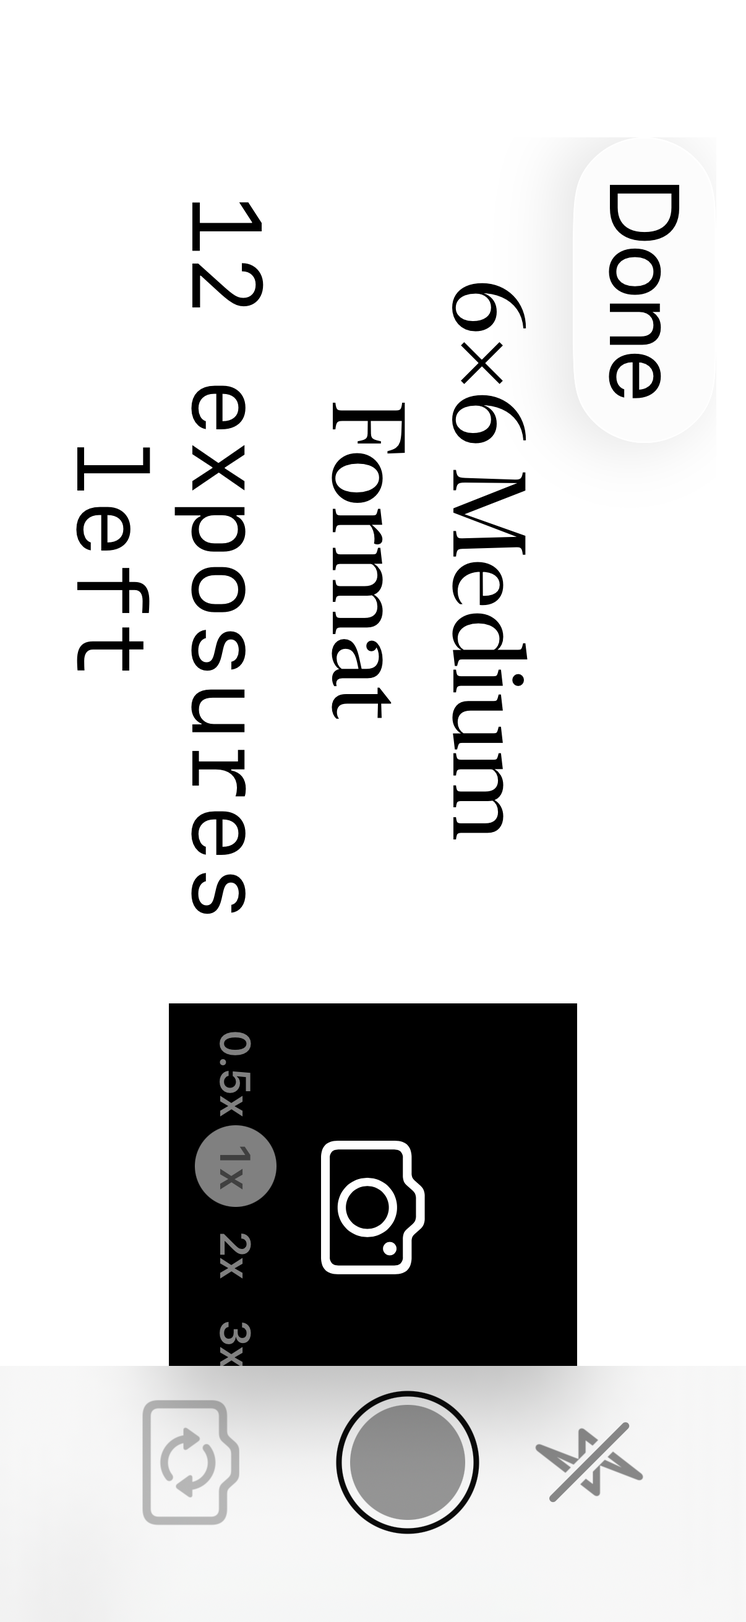
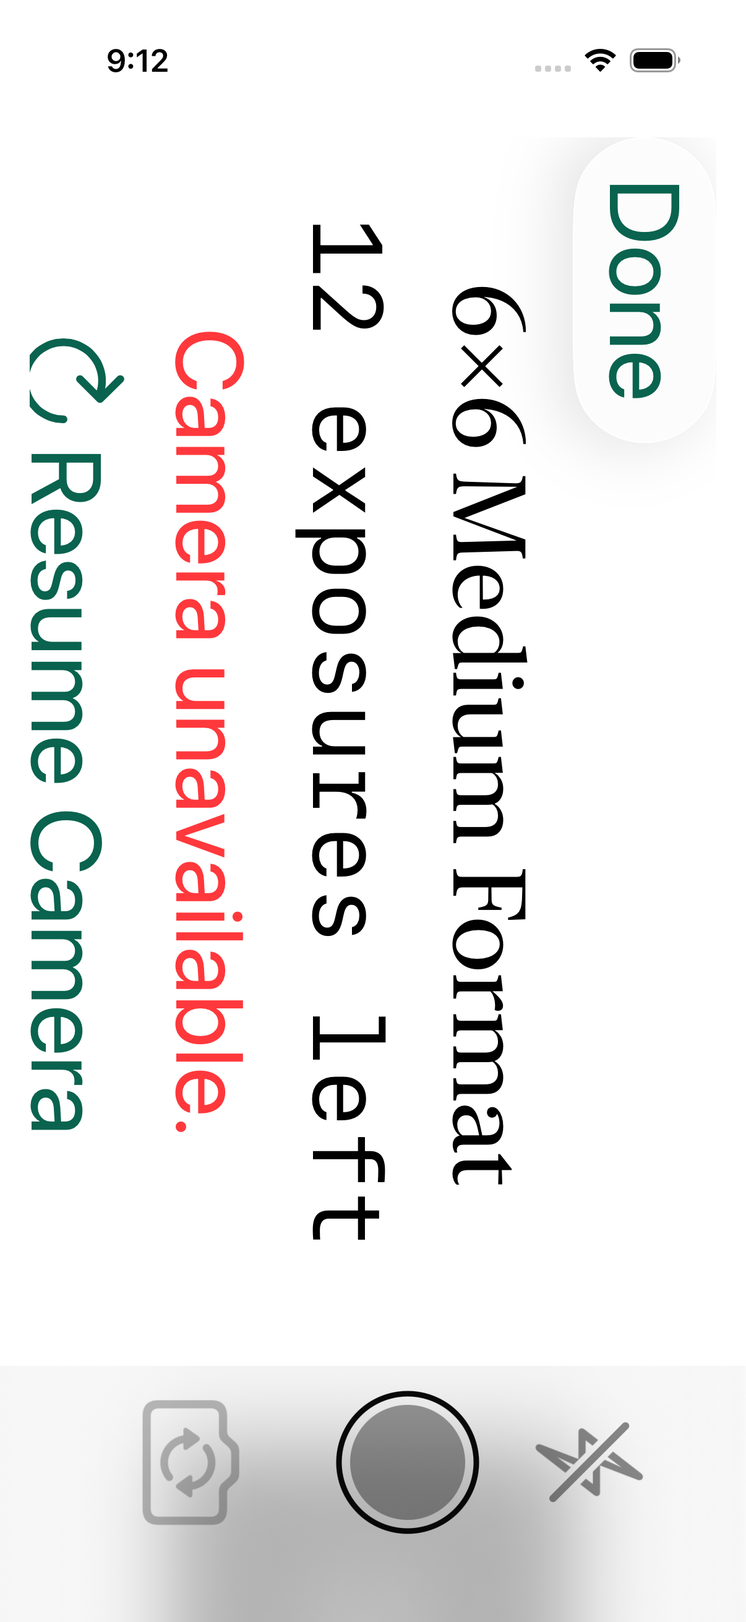
no-mistakes(test): Fix turned shooting-screen header at the largest text size

diff --git a/App/Immerse/UITests/CaptureSidewaysUITests.swift b/App/Immerse/UITests/CaptureSidewaysUITests.swift
@@ -5,8 +5,8 @@ import XCTest
 /// screen keeps turning with the iPhone. The simulator has no camera, so the screen shows its message for the missing one,
 /// and only what it draws without a lens is measured; the zoom pill, the sliders and the Disposable's cue, which a lens
 /// raises, are in `CaptureSidewaysTests`. Loading uses the Debug testing unlock and answers a fresh Camera request
-/// itself, and each test starts on an empty Journal and deletes the Film it loaded. One test per Camera shape, to stay
-/// inside the per-test time allowance.
+/// itself, and each test starts on an empty Journal and deletes the Film it loaded. One test per Camera shape, and the 6×6
+/// again at the largest text size, to stay inside the per-test time allowance.
 @MainActor
 final class CaptureSidewaysUITests: XCTestCase {
     func testSixBySixShootingScreenKeepsItsLayoutHeldSideways() throws {
@@ -39,10 +39,48 @@ final class CaptureSidewaysUITests: XCTestCase {
         var switchCamera: CGRect
     }
 
-    /// `fillsTheRoom`: the Camera's viewfinder is taller than it is wide, so the room above the shutter bar, not the screen's
-    /// width, sets its size, and it ends just above the bar.
-    private func check(id: String, name: String, fillsTheRoom: Bool) throws {
+    /// At the largest text size the header and the notices in it take more room than the screen has, so the screen
+    /// scrolls, and held on its side the turned header is wider than the screen and scrolls across it. The viewfinder still
+    /// keeps its size and place in every hold, and turned straight from one side to the other the header starts from Done.
+    func testSixBySixShootingScreenKeepsItsViewfinderAtTheLargestTextSize() throws {
         let app = XCUIApplication()
+        app.launchArguments += ["-UIPreferredContentSizeCategoryName", "UICTContentSizeCategoryAccessibilityXXXL"]
+        defer { XCUIDevice.shared.orientation = .portrait }
+        let title = try openShootingScreen(app, id: "mediumFormat6x6")
+        defer { deleteFilm(titled: title, app) }
+        let done = app.buttons["Done"]
+        let upright = try layout(app)
+        XCTAssertTrue(upright.window.contains(upright.done), "Done is on screen upright: \(upright.done)")
+        retainFrames(upright, name: "6×6-largest", hold: "portrait")
+        retainScreenshot(name: "6×6-largest-capture-portrait")
+        // Each side twice, so the header turns straight from one side to the other both ways.
+        for (orientation, side) in [(UIDeviceOrientation.landscapeLeft, "left"), (.landscapeRight, "right"), (.landscapeLeft, "left again")] {
+            XCUIDevice.shared.orientation = orientation
+            // Turned straight from one side to the other Done stays turned, so the turn has ended once Done is on the side
+            // that is the header's top: the screen's right held on its left, its left held on its right.
+            let turned = try wait(app) {
+                $0.done.height > $0.done.width && (orientation == .landscapeLeft) == ($0.done.midX > $0.window.midX)
+            }
+            retainScreenshot(name: "6×6-largest-capture-\(side)")
+            retainFrames(turned, name: "6×6-largest", hold: side)
+            XCTAssertEqual(turned.window, upright.window, "The screen stays portrait held on its \(side)")
+            XCTAssertEqual(turned.viewfinder, upright.viewfinder, "The viewfinder keeps its size and place held on its \(side)")
+            XCTAssertEqual(turned.shutter, upright.shutter, "The shutter keeps its place held on its \(side)")
+            XCTAssertTrue(turned.window.contains(turned.done), "The turned header starts from Done held on its \(side): \(turned.done)")
+            // The shutter bar's top is 8 points above the shutter's frame.
+            XCTAssertLessThanOrEqual(turned.done.maxY, turned.shutter.minY - 8, "Done is clear of the shutter bar held on its \(side)")
+            XCTAssertTrue(done.isHittable, "Done can be tapped held on its \(side)")
+        }
+        XCUIDevice.shared.orientation = .portrait
+        let upAgain = try wait(app) { $0.done.width > $0.done.height }
+        XCTAssertEqual(upAgain.viewfinder, upright.viewfinder, "The viewfinder is where it was held upright")
+        done.tap()
+        XCTAssertTrue(done.waitForNonExistence(timeout: 5), "The shooting screen closed")
+    }
+
+    /// Loads a Film in the Camera `id` with the title Load Film suggests, opens its shooting screen and returns the
+    /// Film's title, for the caller to delete it.
+    private func openShootingScreen(_ app: XCUIApplication, id: String) throws -> String {
         app.launchArguments += ["-ImmerseDebugTestingUnlock", "YES"]
         app.resetAuthorizationStatus(for: .camera)
         var allowed = false
@@ -54,7 +92,6 @@ final class CaptureSidewaysUITests: XCTestCase {
             return true
         }
         defer { removeUIInterruptionMonitor(monitor) }
-        defer { XCUIDevice.shared.orientation = .portrait }
         launchWithEmptyJournal(app)
         openCameraCatalog(app)
         let camera = app.buttons["camera-\(id)"]
@@ -65,7 +102,6 @@ final class CaptureSidewaysUITests: XCTestCase {
         scrollUp(app, until: field)
         let title = try XCTUnwrap(field.value as? String)
         let load = app.buttons["load-film"]
-        defer { deleteFilm(titled: title, app) }
         tapWhole(app, load)
         let detail = app.navigationBars[title]
         for _ in 0..<20 {
@@ -78,8 +114,19 @@ final class CaptureSidewaysUITests: XCTestCase {
         XCTAssertTrue(allowed, "Load Film asks for Camera access")
 
         tapWhole(app, app.buttons["Open Camera"])
+        XCTAssertTrue(app.buttons["Done"].waitForExistence(timeout: 5))
+        return title
+    }
+
+    /// `fillsTheRoom`: the Camera's viewfinder is taller than it is wide, so the room above the shutter bar, not the screen's
+    /// width, sets its size, and it ends just above the bar.
+    private func check(id: String, name: String, fillsTheRoom: Bool) throws {
+        let app = XCUIApplication()
+        defer { XCUIDevice.shared.orientation = .portrait }
+        let title = try openShootingScreen(app, id: id)
+        defer { deleteFilm(titled: title, app) }
+        let detail = app.navigationBars[title]
         let done = app.buttons["Done"]
-        XCTAssertTrue(done.waitForExistence(timeout: 5))
         let upright = try layout(app)
         XCTAssertLessThan(upright.window.width, upright.window.height, "The shooting screen is portrait")
         XCTAssertGreaterThan(upright.remaining.width, upright.remaining.height, "Upright, the count reads across")

diff --git a/App/Immerse/Tests/CaptureSidewaysTests.swift b/App/Immerse/Tests/CaptureSidewaysTests.swift
@@ -158,18 +158,21 @@ final class CaptureSidewaysTests: XCTestCase {
 
     /// Where `CaptureColumn` puts a header, a viewfinder of `aspect` and, with `controls` high, controls, for a screen with
     /// `available` points of room between its top and the shutter bar, as the screen lays them out in a window.
+    /// With a `notice`, the header ends with it, as at the largest text sizes.
     private func column(
-        available: CGFloat, aspect: CGFloat, controls: CGFloat = 0, turn: HeldTurn = .upright, width: CGFloat = 358
+        available: CGFloat, aspect: CGFloat, controls: CGFloat = 0, turn: HeldTurn = .upright, width: CGFloat = 358,
+        notice: String? = nil
     ) async throws -> (header: CGRect, firstLine: CGRect, viewfinder: CGRect, controls: CGRect, size: CGSize) {
         let frames = Frames()
         let inColumn: @Sendable (GeometryProxy) -> CGRect = { $0.frame(in: .named("column")) }
         let view = CaptureColumn(available: available) {
-            TurnedBlock(length: 128, reservesLength: true) {
+            TurnedBlock(length: 128, reservesLength: true, maximumLength: available) {
                 VStack(spacing: 12) {
                     Color.clear.frame(height: 44)
                         .onGeometryChange(for: CGRect.self, of: inColumn) { frames.firstLine = $0 }
                     Color.clear.frame(height: 28)
                     Color.clear.frame(height: 22)
+                    if let notice { Text(notice) }
                 }.frame(maxWidth: .infinity)
             }
             .onGeometryChange(for: CGRect.self, of: inColumn) { frames.header = $0 }
@@ -254,6 +257,43 @@ final class CaptureSidewaysTests: XCTestCase {
                     XCTAssertEqual(turned.controls, upright.controls)
                 }
             }
+        }
+    }
+
+    /// At the largest text sizes the header, with the notices in it, is taller than the room above the shutter bar, and
+    /// wider than the screen once turned, where it scrolls across it. It still reserves the height it has in the portrait
+    /// hold, so the viewfinder keeps its place, and its lines run no longer than the room, so their first line, Done's,
+    /// shows at rest at whichever end of the screen it starts.
+    func testAHeaderTallerThanTheRoomKeepsItsPortraitHeightAndItsFirstLineInView() async throws {
+        let notice = String(repeating: "Camera unavailable. ", count: 40)
+        let upright = try await column(available: 480, aspect: 1, notice: notice)
+        XCTAssertGreaterThan(upright.header.height, 480, "The header is taller than the room")
+        for turn in [HeldTurn.clockwise, .counterClockwise] {
+            let turned = try await column(available: 480, aspect: 1, turn: turn, notice: notice)
+            XCTAssertEqual(turned.header.height, upright.header.height, "\(turn)")
+            XCTAssertEqual(turned.viewfinder, upright.viewfinder, "\(turn)")
+            XCTAssertLessThanOrEqual(turned.firstLine.maxY, 480 + 0.5, "The first line is within the room, \(turn)")
+            XCTAssertGreaterThanOrEqual(turned.firstLine.minY, -0.5, "The first line is within the room, \(turn)")
+        }
+    }
+
+    /// A header that scrolls across the screen once turned starts from its top in either hold, also turned straight from
+    /// one side to the other, where its top is at the other end.
+    func testAHeaderThatScrollsStartsFromItsTopTurnedFromSideToSide() async throws {
+        let probe = ScrollProbe()
+        let scene = try XCTUnwrap(UIApplication.shared.connectedScenes.compactMap { $0 as? UIWindowScene }.first)
+        let window = UIWindow(windowScene: scene)
+        window.rootViewController = UIHostingController(rootView: ScrollProbeView(probe: probe))
+        window.makeKeyAndVisible()
+        defer { window.isHidden = true; window.rootViewController = nil }
+        try await Task.sleep(for: .milliseconds(300))
+        for turn in [HeldTurn.clockwise, .counterClockwise, .clockwise] {
+            probe.turn = turn
+            try await Task.sleep(for: .milliseconds(500))
+            XCTAssertTrue(probe.block.contains(CGPoint(x: probe.firstLine.midX, y: probe.firstLine.midY)),
+                          "The first line \(probe.firstLine) shows in the block \(probe.block) turned \(turn)")
+            XCTAssertEqual(probe.firstLine.midX > probe.block.midX, turn == .clockwise,
+                           "The first line is at the edge that is the top turned \(turn)")
         }
     }
 
@@ -385,6 +425,29 @@ private struct HoldProbe: View {
     var body: some View {
         Color.clear.holdsInterfaceOrientation(.portrait) { .portrait }
             .sheet(isPresented: $showing.print) { Text("Print") }
+    }
+}
+
+/// How the iPhone is held, and where a header that scrolls once turned and its first line are, for the test of where it
+/// starts.
+@Observable private final class ScrollProbe {
+    var turn = HeldTurn.upright
+    var block = CGRect.zero
+    var firstLine = CGRect.zero
+}
+
+private struct ScrollProbeView: View {
+    let probe: ScrollProbe
+    var body: some View {
+        TurnedBlock(length: 128, reservesLength: true) {
+            VStack(spacing: 0) {
+                Color.clear.frame(height: 44).onGeometryChange(for: CGRect.self, of: { $0.frame(in: .global) }) { probe.firstLine = $0 }
+                Color.clear.frame(height: 900)
+            }.frame(maxWidth: .infinity)
+        }
+        .onGeometryChange(for: CGRect.self, of: { $0.frame(in: .global) }) { probe.block = $0 }
+        .environment(\.heldTurn, probe.turn)
+        .frame(width: 358)
     }
 }
 

diff --git a/App/Immerse/Sources/HeldTurn.swift b/App/Immerse/Sources/HeldTurn.swift
@@ -78,17 +78,28 @@ private struct TurnedWithTheHold: ViewModifier {
 /// sits against the edge that is its top as the person holds the iPhone. The Camera's header uses it, so the viewfinder
 /// below it is the same size and in the same place however the iPhone is held. A reserving block that is offered more
 /// height than its length is laid out that long (`CaptureColumn` offers the header the room the viewfinder leaves, so a
-/// tall iPhone keeps the Camera's name and its count on one line each). Any other block is exactly as wide as it is tall
-/// once turned, and its parent puts it where it belongs.
+/// tall iPhone keeps the Camera's name and its count on one line each), though never longer than `maximumLength`, at its
+/// top: the header's lines run no longer than the room above the shutter bar, so where the header is taller, as at the
+/// largest text sizes, each line starts in view at whichever end of the screen it starts. Any other block is exactly as
+/// wide as it is tall once turned, and its parent puts it where it belongs.
 struct TurnedBlock<Content: View>: View {
     @Environment(\.heldTurn) private var turn
     var length: CGFloat?
     var reservesLength = false
+    var maximumLength: CGFloat?
     /// One view: it is turned as a whole.
     @ViewBuilder var content: Content
+    /// The width the block is offered, the same in every hold for a reserving block. The scroll view that holds a block
+    /// wider than the screen once turned offers it no width, so a reserving block measures its portrait form at this one.
+    @State private var offeredWidth: CGFloat?
 
     var body: some View {
-        let block = TurnedLayout(turn: turn, length: length, reservesLength: reservesLength) {
+        turned.onGeometryChange(for: CGFloat.self, of: { $0.size.width }) { offeredWidth = $0 }
+    }
+
+    @ViewBuilder private var turned: some View {
+        let block = TurnedLayout(turn: turn, length: length, reservesLength: reservesLength, maximumLength: maximumLength,
+                                 offeredWidth: offeredWidth) {
             content.rotationEffect(turn.angle)
         }
         if turn.isSideways {
@@ -99,6 +110,9 @@ struct TurnedBlock<Content: View>: View {
                 ScrollView(.horizontal, showsIndicators: false) { block }
                     .defaultScrollAnchor(turn == .clockwise ? .trailing : .leading)
             }
+            // A new view for each side, since the anchor applies only as the scroll view appears: turned straight from one
+            // side to the other, the block starts from its top again, which is at the other end.
+            .id(turn)
         } else {
             block
         }
@@ -109,15 +123,17 @@ private struct TurnedLayout: Layout {
     var turn: HeldTurn
     var length: CGFloat?
     var reservesLength: Bool
+    var maximumLength: CGFloat?
+    var offeredWidth: CGFloat?
 
     private func finite(_ value: CGFloat?) -> CGFloat? { value.flatMap { $0.isFinite ? $0 : nil } }
 
     /// How long the block's lines run when the iPhone is on its side: `length`, or longer for a reserving block that is
-    /// offered more height than that.
+    /// offered more height than that, up to `maximumLength`.
     private func lengthUsed(_ proposal: ProposedViewSize) -> CGFloat? {
         guard let length else { return nil }
         guard reservesLength, let offered = finite(proposal.height) else { return length }
-        return max(length, offered)
+        return max(length, min(offered, maximumLength ?? offered))
     }
 
     /// The block's size when laid out for the iPhone on its side, before it is turned.
@@ -127,7 +143,9 @@ private struct TurnedLayout: Layout {
 
     func sizeThatFits(proposal: ProposedViewSize, subviews: Subviews, cache: inout ()) -> CGSize {
         guard let child = subviews.first else { return .zero }
-        let upright = child.sizeThatFits(ProposedViewSize(width: proposal.width, height: nil))
+        // Inside a scroll view a reserving block is offered no width, and its portrait form is as wide as the screen.
+        let width = reservesLength ? finite(proposal.width) ?? offeredWidth : proposal.width
+        let upright = child.sizeThatFits(ProposedViewSize(width: width, height: nil))
         // Measured in every hold, so the reserved height never depends on how the iPhone is held.
         let sideways = sidewaysSize(child, proposal)
         let height = reservesLength ? max(upright.height, sideways.width) : (turn.isSideways ? sideways.width : upright.height)
@@ -147,6 +165,10 @@ private struct TurnedLayout: Layout {
         }
         let size = sidewaysSize(child, proposal)
         let centerX = turn == .clockwise ? bounds.maxX - size.height / 2 : bounds.minX + size.height / 2
-        child.place(at: CGPoint(x: centerX, y: bounds.midY), anchor: .center, proposal: ProposedViewSize(size))
+        // Against the top too: where a reserving block is taller than its lines, as when they reach `maximumLength`, the
+        // room is left below them. Offered no height, so each text takes the height it measured: offered exactly the
+        // measured height, rounded to the screen's pixels, a wrapped text lost its last line.
+        child.place(at: CGPoint(x: centerX, y: bounds.minY + size.width / 2), anchor: .center,
+                    proposal: ProposedViewSize(width: size.width, height: nil))
     }
 }

diff --git a/App/Immerse/Sources/CaptureView.swift b/App/Immerse/Sources/CaptureView.swift
@@ -46,8 +46,9 @@ struct CaptureView: View {
         GeometryReader { screen in
             ScrollView {
                 // The reader's size is the screen's safe area less the shutter bar: the room the column has.
-                CaptureColumn(available: screen.size.height - 2 * Self.verticalPadding) {
-                    header(capture).captureColumnRole(.header)
+                let room = screen.size.height - 2 * Self.verticalPadding
+                CaptureColumn(available: room) {
+                    header(capture, room: room).captureColumnRole(.header)
                     if let film = model.film(filmID) {
                         let behavior = CaptureBehavior.for(film.camera.id)
                         viewfinder(film, behavior: behavior, held: held)
@@ -103,9 +104,10 @@ struct CaptureView: View {
 
     /// Done, the Camera's name and what is left above the viewfinder, in view at rest without scrolling. With the iPhone on
     /// its side the whole block turns, as the portrait header it is, taking at least `headerLength` of the screen's height in
-    /// either hold. At the largest text sizes the notices that sit over the viewfinder come here, where they scroll.
-    private func header(_ capture: CaptureController) -> some View {
-        TurnedBlock(length: headerLength, reservesLength: true) {
+    /// either hold. At the largest text sizes the notices that sit over the viewfinder come here, where they scroll; held on
+    /// its side its lines then run no longer than the `room` the screen shows above the shutter bar, so each starts in view.
+    private func header(_ capture: CaptureController, room: CGFloat) -> some View {
+        TurnedBlock(length: headerLength, reservesLength: true, maximumLength: room) {
             VStack(spacing: 12) {
                 HStack {
                     Button { capture.suspend(); dismiss() } label: { Text("Done").frame(minHeight: 44) }.buttonStyle(.glass)

diff --git a/Evidence/NativeApp/capture-sideways-zoom-068.md b/Evidence/NativeApp/capture-sideways-zoom-068.md
@@ -190,6 +190,8 @@ Development center-crops every capture to a square and scales it to 3072 by 3072
 | The held turn follows how the iPhone is held; a block reserving its length is the same height in every hold; a turned block takes the room it needs; a block that does not reserve takes its turned footprint | `CaptureSidewaysTests` (hosted) |
 | The column's arithmetic, laid out in a window: with room to spare the viewfinder keeps the screen's full width and the header gets the rest, to 300 pt; short of room the viewfinder keeps its shape and gives up width, with the controls taking theirs first; it is never under 220 pt; and its frame, the header's height and the controls' frame are identical in all three holds, for the shape of every Camera, with and without controls, at four amounts of room | `CaptureSidewaysTests` (hosted) |
 | Every Camera's shooting screen held upright and on each side at the default and the largest text size, with the lens controls and low-light cue a lens would raise, kept as screenshots | `CaptureSidewaysTests.testCaptureScreensHeldSidewaysKeepTheLayoutAndTurnTheText` |
+| The 6×6 at the largest text size, in a simulator turned to its left, its right and its left again: the viewfinder's and the shutter's frames are those it has upright, and Done is on screen, clear of the shutter bar | `CaptureSidewaysUITests.testSixBySixShootingScreenKeepsItsViewfinderAtTheLargestTextSize` |
+| A header that scrolls across the screen once turned keeps its portrait height, so the viewfinder does not move, keeps its lines to the room, and starts from its top on either side, also turned straight from one side to the other | `CaptureSidewaysTests.testAHeaderTallerThanTheRoomKeepsItsPortraitHeightAndItsFirstLineInView`, `testAHeaderThatScrollsStartsFromItsTopTurnedFromSideToSide` (hosted) |
 | On the Instant, the 6×6, the Disposable and the Super 8, in a simulator turned upright, to its left and to its right, on the iPhone SE, the iPhone 13 mini and the iPhone 17 Pro: the window stays portrait; the viewfinder's and the shutter's frames are identical in all three holds; the whole viewfinder is above the shutter bar and inside the screen, and for the Disposable and the Super 8 within 40 pt of the bar; every notice, button and note drawn in the viewfinder lies within its frame, so none is cut off; Resume Camera is over it; the count and the Switch Camera icon in the shutter bar turn to read upright; held upright, Done is just below the status bar with the name and the count under it; Done keeps a 44 pt target, stays on screen, clear of the viewfinder and of the count; and after Done the Film screen turns with the iPhone | `CaptureSidewaysUITests` |
 | The 6×6's zoom steps enabled, with the selected step filled, light and dark, upright and turned, kept as screenshots | `CaptureSidewaysTests.testTheZoomStepsInTheirEnabledState` |
 | The camera screen's Done, now a plain button and not in a navigation bar, in the Populated Journal Harness's Instant, permission and Original-question flows | `PopulatedJournalHarnessTests` (`CameraPermissionWorkflowTests`, three `PopulatedWorkflowTests`) |
@@ -253,6 +255,26 @@ On an iPhone SE (3rd generation) simulator on iOS 26.5, made for this run and de
 The pictures below are those runs' own screenshots, and the Populated Journal Harness built for testing.
 The hold's test drives a sheet over a probe that holds the window as the screen does; a real Instant print rising and closing over the camera on a phone is H10's.
 
+### Corrected after testing at the largest text size
+
+Driving the app at the largest text size (AX-XXXL) found two defects that the default size hides, and fixing them showed two more:
+
+- Held on its side, the 6×6's viewfinder sat 311 pt higher than upright (at y 467.7 against 778.7 on the iPhone 17 Pro).
+  The turned header outgrew the screen and moved into its scrolling copy, a scroll view offers its content no width, and so the header measured its portrait form unwrapped and reserved far less than its portrait height.
+  A reserving `TurnedBlock` now measures its portrait form at the width it is offered, which is the screen's in every hold.
+- Turned straight from one side to the other, the scrolling header kept its offset, which put Done 307 pt past the screen's left edge.
+  The anchor that starts it from its top applies only as a scroll view appears, so the turned header is now a new view for each side.
+- Once the header kept its portrait height, its turned lines ran that whole height, and held with its top to the left, where they start at the screen's bottom, Done sat partly under the shutter bar.
+  The header's lines now run no longer than the room above the bar (`maximumLength`), against its top.
+- With those shorter lines the iPhone SE's turned count read "12 exposures l…" in every turned hold, a line that should have wrapped; the iPhone 17 Pro's screenshots from before the fix show the same, a wrapped count's last line cut to a sliver.
+  A turned block was placed at exactly the height it had measured, and a wrapped text in it lost its last line; it is now placed with no height, so each text takes the height it measured, and the count wraps.
+  This is likely the cause of the cut row notes under "Failures on the way", whose shrinking text was left as it is.
+
+The new screen test failed on the build before (the viewfinder in every turned hold, and Done held with its top to the left) and passes now; both new hosted tests failed against the code before and pass now.
+On an iPhone 17 Pro simulator on iOS 26.5, the 17 hosted `CaptureSidewaysTests`, the 17 `CaptureControllerIntegrationTests` and all five `CaptureSidewaysUITests` passed, the default-size frames unchanged from the run before.
+On an iPhone SE (3rd generation) simulator on iOS 26.5, made for this run and deleted after it, all five `CaptureSidewaysUITests` passed, the 6×6 at the largest text size with its viewfinder at y 737.5 in every hold.
+The two pictures of the 6×6 at the largest text size below were taken again from this build.
+
 ### Failures on the way, kept
 
 - After the second review's rows, a turned note in the 6×6's rows ("Manual focus unavailable on this lens", sometimes the Exposure one) showed one line short, its last line cut to "on this le…", in the screen test held sideways, and in hosted probes only after the screen had turned from upright, on different rows from run to run.
@@ -271,6 +293,9 @@ The hold's test drives a sheet over a probe that holds the window as the screen 
 - The screen tests did not run on an iPhone SE simulator at first: the shared `tapWhole` helper keeps 40 pt clear of the window's bottom edge for the home indicator, and the SE has none, so Load Film's button never counted as whole on screen there.
   The helper now keeps 4 pt on a window 700 pt high or less, and the same tests run on the SE.
 - In the Populated Journal Harness, three flows tapped the camera screen's Done through `navigationBars`, where it no longer is; they tap the button.
+- The first fix for the header's offset after a side-to-side turn gave its scroll view, inside the `ViewThatFits`, a new identity for each side; turned from one side straight to the other, the screen test's screenshots then showed both sides' headers at once, still there 2 seconds later.
+  Resetting a `ScrollPosition` on each turn left the offset where it was in the hosted test; the identity is now on the whole `ViewThatFits`, and the screenshots show one header.
+- Capping the height `CaptureColumn` offered the header did not shorten its turned lines: the `ViewThatFits` places its choice at the height it measured, not at the height it was offered, so the cap is the block's own `maximumLength`.
 
 ## Pictures
 
@@ -329,9 +354,12 @@ The selected step is a white disc with black text, the others white text on the 
 
 ![The zoom steps in their enabled state, close up](capture-sideways-zoom-068/6x6-zoom-steps-enabled-close-up.png)
 
-**The 6×6 at the largest text size, turned, on the iPhone 17 Pro:** the screen scrolls, the notices are in the header, the viewfinder keeps its 220 pt least, and its lower part, with the zoom steps, is below the shutter bar until the screen is scrolled.
+**The 6×6 at the largest text size, turned, on the iPhone 17 Pro, in the simulator with no camera:** the screen scrolls, the notices are in the header, which keeps its portrait height in every hold, so the viewfinder, at its 220 pt least, is where it is upright, below the shutter bar until the screen is scrolled.
+The turned header reads from Done on either side, with its lines no longer than the room above the bar.
 
-![The 6×6 at the largest text size, turned](capture-sideways-zoom-068/6x6-largest-left.png)
+| Top to the right | Top to the left |
+| --- | --- |
+| ![The 6×6 at the largest text size, top to the right](capture-sideways-zoom-068/6x6-largest-left.png) | ![The 6×6 at the largest text size, top to the left](capture-sideways-zoom-068/6x6-largest-right.png) |
 
 ## Not Proven Without a Phone
 
